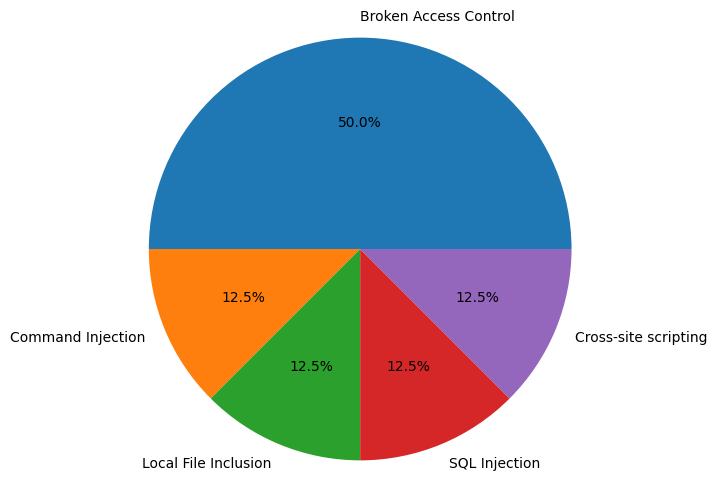
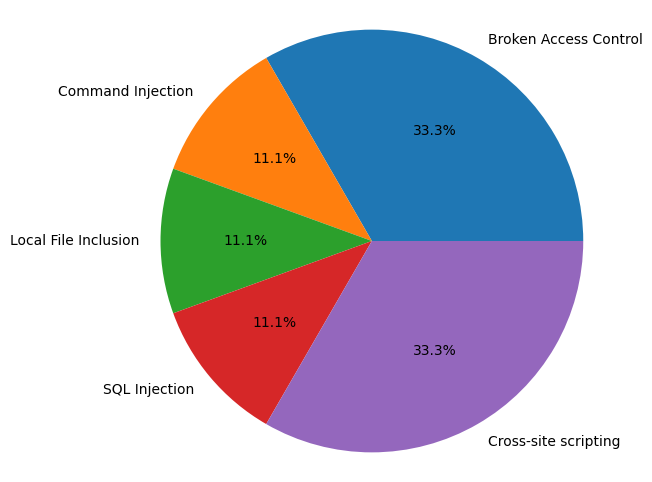
2023-06-18

diff --git a/web_scan_report.html b/web_scan_report.html
@@ -91,7 +91,7 @@
             <th>Vulnerability</th>
             <th>Count</th>
         </tr>
-    <tr><td>Broken Access Control</td><td>4</td></tr><tr><td>Command Injection</td><td>1</td></tr><tr><td>Local File Inclusion</td><td>1</td></tr><tr><td>SQL Injection</td><td>1</td></tr><tr><td>Cross-site scripting</td><td>1</td></tr></table>
+    <tr><td>Broken Access Control</td><td>3</td></tr><tr><td>Command Injection</td><td>1</td></tr><tr><td>Local File Inclusion</td><td>1</td></tr><tr><td>SQL Injection</td><td>1</td></tr><tr><td>Cross-site scripting</td><td>3</td></tr></table>
         </div>
 
         <br>
@@ -116,7 +116,7 @@
         
             <tr>
                 <td>Broken Access Control</td>
-                <td><a href='http://localhost/login.php'>http://localhost/login.php</a></td>
+                <td><a href='http://localhost/php.ini'>http://localhost/php.ini</a></td>
                 <td></td>
                 <td></td>
             </tr>
@@ -124,13 +124,6 @@
             <tr>
                 <td>Broken Access Control</td>
                 <td><a href='http://localhost/phpinfo.php'>http://localhost/phpinfo.php</a></td>
-                <td></td>
-                <td></td>
-            </tr>
-        
-            <tr>
-                <td>Broken Access Control</td>
-                <td><a href='http://localhost/php.ini'>http://localhost/php.ini</a></td>
                 <td></td>
                 <td></td>
             </tr>
@@ -153,14 +146,28 @@
                 <td>SQL Injection</td>
                 <td><a href='http://localhost/vulnerabilities/sqli/session-input.php'>http://localhost/vulnerabilities/sqli/session-input.php</a></td>
                 <td>POST</td>
-                <td><div class='payload-box'><div class='payload-item'><span class='payload-key'>id:</span> <span class='payload-value'>1&#x27; union select 1, hex(&quot;fu&quot; &quot;&quot; &quot;zz&quot;)#</span></div><br><div class='payload-item'><span class='payload-key'>Submit:</span> <span class='payload-value'>Submit</span></div><br></div></td>
+                <td><div class='payload-box'><div class='payload-item'><span class='payload-key'>id:</span> <span class='payload-value'>&#x27; union select 1, hex(&quot;fu&quot; &quot;&quot; &quot;zz&quot;)-- xx</span></div><br><div class='payload-item'><span class='payload-key'>Submit:</span> <span class='payload-value'>Submit</span></div><br></div></td>
             </tr>
         
             <tr>
                 <td>Cross-site scripting</td>
                 <td><a href='http://localhost/vulnerabilities/sqli/session-input.php'>http://localhost/vulnerabilities/sqli/session-input.php</a></td>
                 <td>POST</td>
-                <td><div class='payload-box'><div class='payload-item'><span class='payload-key'>id:</span> <span class='payload-value'>&lt;iframe srcdoc=&#x27;&lt;input type=&quot;text&quot;  id=&quot;fuzz&quot; autofocus onfocus=&quot;`${alert`67777`}`&quot;&gt;click&#x27;&gt;</span></div><br><div class='payload-item'><span class='payload-key'>Submit:</span> <span class='payload-value'>&lt;iframe srcdoc=&#x27;&lt;input type=&quot;text&quot;  id=&quot;fuzz&quot; autofocus onfocus=&quot;`${alert`67777`}`&quot;&gt;click&#x27;&gt;</span></div><br></div></td>
+                <td><div class='payload-box'><div class='payload-item'><span class='payload-key'>id:</span> <span class='payload-value'>document.body.innerHTML+=&quot;&lt;textarea rows=&quot;10&quot; cols=&quot;50&quot;  id=&quot;fuzz&quot; onmouseup=&quot;alert(67777)&quot;&gt;click&quot;;</span></div><br><div class='payload-item'><span class='payload-key'>Submit:</span> <span class='payload-value'>document.body.innerHTML+=&quot;&lt;textarea rows=&quot;10&quot; cols=&quot;50&quot;  id=&quot;fuzz&quot; onmouseup=&quot;alert(67777)&quot;&gt;click&quot;;</span></div><br></div></td>
+            </tr>
+        
+            <tr>
+                <td>Cross-site scripting</td>
+                <td><a href='http://localhost/vulnerabilities/xss_r/'>http://localhost/vulnerabilities/xss_r/</a></td>
+                <td>GET</td>
+                <td><div class='payload-box'><div class='payload-item'><span class='payload-key'>name:</span> <span class='payload-value'>&lt;iframe  id=&quot;fuzz&quot; onload=&quot;a=alert,a(67777)&quot;&gt;click</span></div><br></div></td>
+            </tr>
+        
+            <tr>
+                <td>Cross-site scripting</td>
+                <td><a href='http://localhost/vulnerabilities/xss_s/'>http://localhost/vulnerabilities/xss_s/</a></td>
+                <td>POST</td>
+                <td><div class='payload-box'><div class='payload-item'><span class='payload-key'>txtName:</span> <span class='payload-value'>document.body.innerHTML+=&quot;&lt;input type=&quot;text&quot;  id=&quot;fuzz&quot; ONCLICk=&quot;top[&#x27;al\145rt&#x27;](67777)&quot;&gt;click&quot;;</span></div><br><div class='payload-item'><span class='payload-key'>btnSign:</span> <span class='payload-value'>document.body.innerHTML+=&quot;&lt;input type=&quot;text&quot;  id=&quot;fuzz&quot; ONCLICk=&quot;top[&#x27;al\145rt&#x27;](67777)&quot;&gt;click&quot;;</span></div><br><div class='payload-item'><span class='payload-key'>btnClear:</span> <span class='payload-value'>document.body.innerHTML+=&quot;&lt;input type=&quot;text&quot;  id=&quot;fuzz&quot; ONCLICk=&quot;top[&#x27;al\145rt&#x27;](67777)&quot;&gt;click&quot;;</span></div><br></div></td>
             </tr>
         </table>
         </div>

diff --git a/fuzzer.py b/fuzzer.py
@@ -242,7 +242,7 @@ def fuzzing():
 
             for form in forms:
                 form_details = crawler.get_form_details(form)
-                payloads = sql_injection.generate_payload(60)
+                payloads = sql_injection.generate_payload(70)
 
                 for payload in payloads:
                     result = sql_injection.submit_form(driver, form_details, url, payload)
@@ -277,7 +277,7 @@ def fuzzing():
 
             for form in forms:
                 form_details = xss.get_form_details(form)
-                payloads = xss.generate_payload(60)
+                payloads = xss.generate_payload(70)
 
                 for payload in payloads:
                     result = xss.submit_form(driver, form_details, url, payload)
